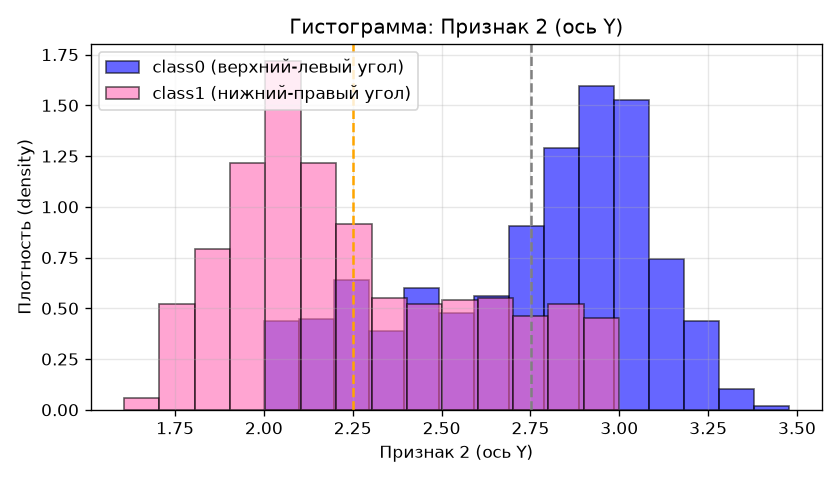
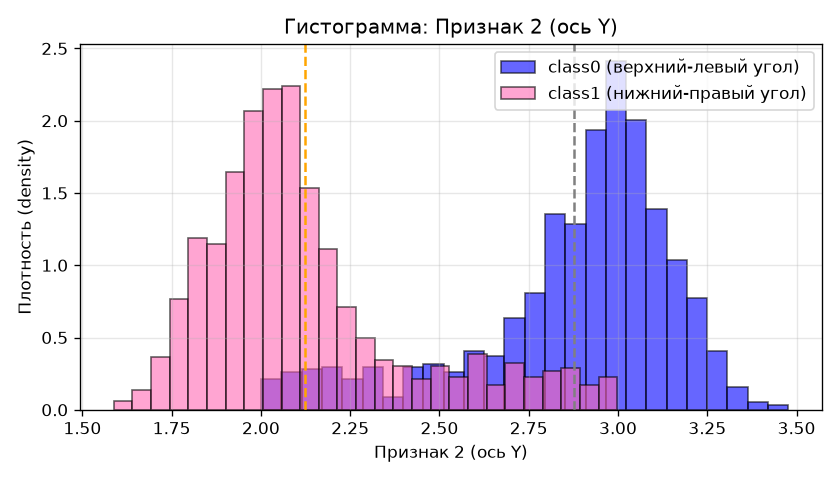
adjustments

Changed region(s): [[0.031, 0.0312, 0.9595, 0.9688], [0.9286, 0.875, 0.9905, 0.9062]]

diff --git a/4 KURS/PMOiAD/lab1/DataGenerator.py b/4 KURS/PMOiAD/lab1/DataGenerator.py
@@ -19,10 +19,7 @@ def norm_dataset(mu,sigma,N): # обозначение имя функции и 
         v1 = np.random.normal(mu1[i],sigma1[i],[N,1]) 
         class1 = np.hstack((class1,v1))
 
-    Y1 = np.empty((N, 1), dtype=bool) # пустой массив размерности Nx1 
-    Y1.fill(1) #заполнение пустого массива единицами
-    Y0 = np.empty((N, 1), dtype=bool) 
-    Y0.fill(0)
+    
 
     Y1 =np.ones((N, 1), dtype=bool) 
     Y0 = np.zeros((N, 1), dtype=bool)
@@ -90,9 +87,9 @@ def nonlinear_dataset_7(N=1000, seed=None):
     x0, y0 = 0.0, 3.0
 
     # сколько точек на горизонтальную и вертикальную полосу
-    n_v = N // 2
-    n_h = N - n_v
-
+    n_h = int(round(N*L/(L+S)))
+    n_v = N-n_h
+    
     # горизонтальная полоса: идёт вправо от вершины, y ≈ y0
     xh0 = rng.uniform(x0, x0 + L, n_h)
     yh0 = y0 + rng.normal(0.0, t, n_h)
@@ -110,8 +107,10 @@ def nonlinear_dataset_7(N=1000, seed=None):
     # вершина угла
     x1, y1 = 3.5, 2.0
 
-    n_h = N // 2
-    n_v = N - n_h
+    # сколько точек на горизонтальную и вертикальную полосу
+    n_h = int(round(N*L/(L+S)))
+    n_v = N-n_h
+
 
     # вертикальная полоса: идёт вверх от вершины, x ≈ x1
     xv1 = x1 + rng.normal(0.0, t, n_v)

diff --git a/4 KURS/PMOiAD/lab1/main.py b/4 KURS/PMOiAD/lab1/main.py
@@ -5,19 +5,7 @@ import matplotlib.pyplot as plt
 from DataGenerator import nonlinear_dataset_7
 
 if __name__ == "__main__":
-    import matplotlib.pyplot as plt
 
-    X, Y, c0, c1 = nonlinear_dataset_7(N=1500, seed=42)
-
-    plt.figure(figsize=(6, 6))
-    plt.scatter(c0[:, 0], c0[:, 1], s=8, alpha=0.6, label="class0")
-    plt.scatter(c1[:, 0], c1[:, 1], s=8, alpha=0.6, label="class1")
-    plt.axis("equal")
-    plt.grid(True, alpha=0.3)
-    plt.legend()
-    plt.title("nonlinear_dataset_7")
-    plt.savefig('nonlinear_dataset_7.png', dpi=120)
-    plt.show()
 
     import numpy as np
     import matplotlib.pyplot as plt
